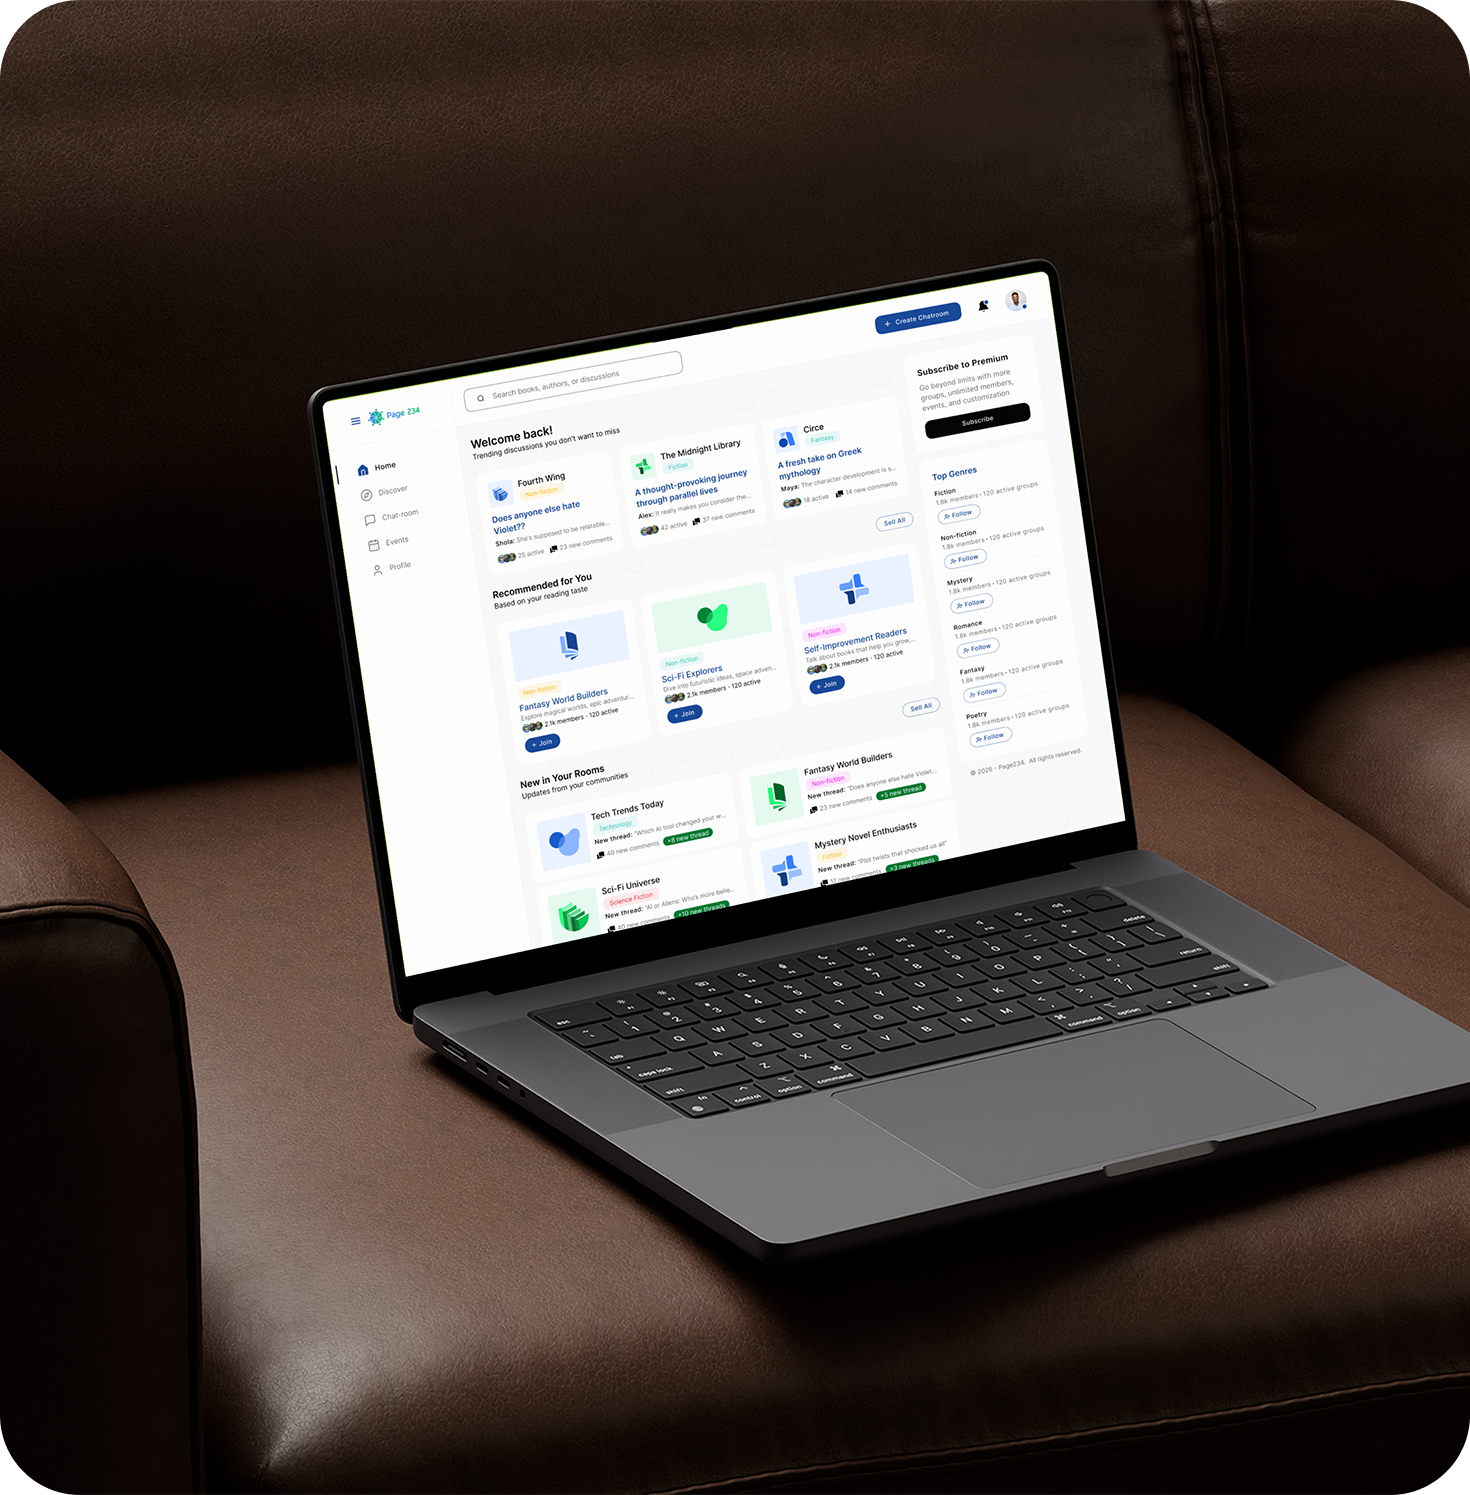
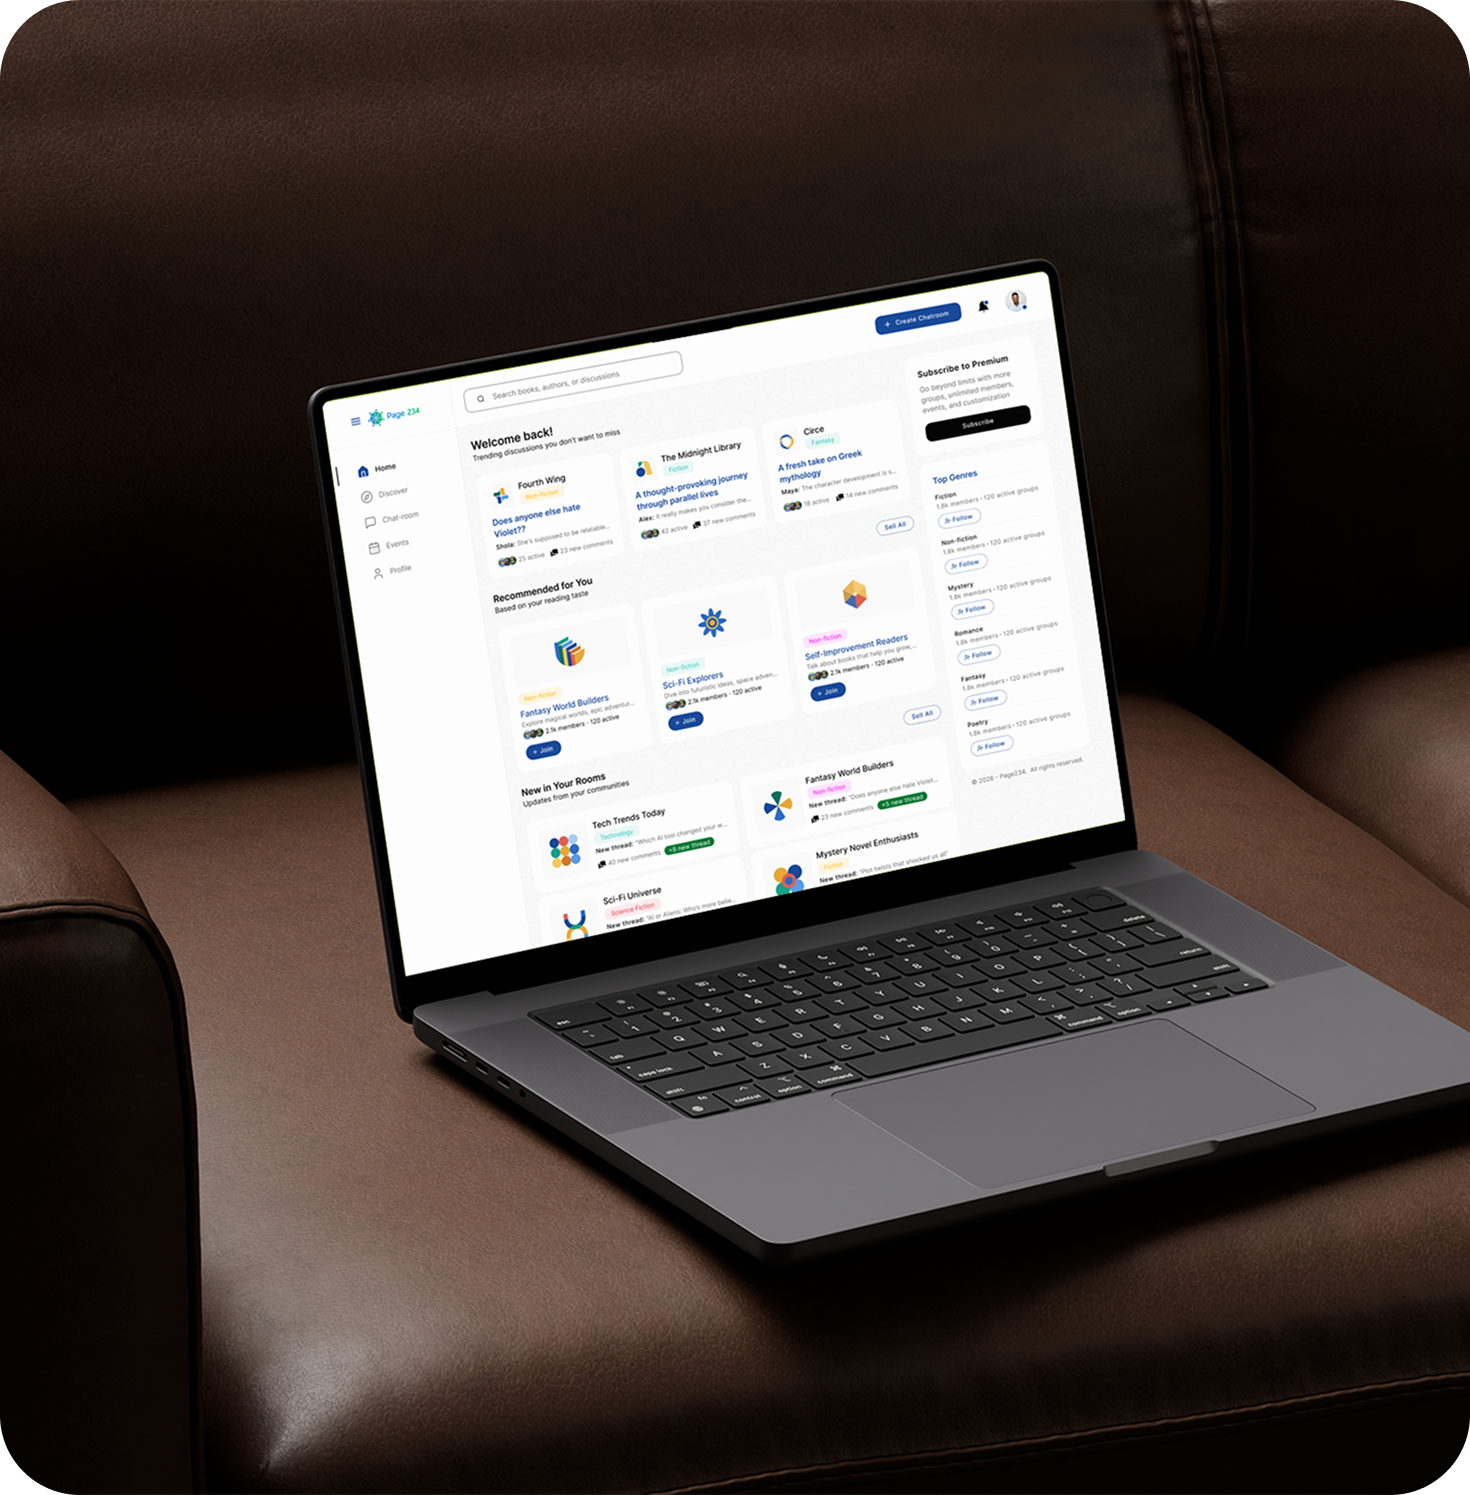
Add ScrollToTop component across all pages

Changed region(s): [[0.3061, 0.2462, 0.7347, 0.6462], [0.2449, 0.3077, 0.2755, 0.3692], [0.6122, 0.1846, 0.6429, 0.2154]]

diff --git a/src/components/ArtifactsGrid.tsx b/src/components/ArtifactsGrid.tsx
@@ -7,17 +7,17 @@ import { useState } from "react";
 export default function ArtifactsGrid() {
   const artifacts = [
     { id: 1, image: "/images/design-artifact-img/At1.png", title: "Premium corporate UI redesign for McGeorge Consulting." },
-    { id: 2, image: "/images/design-artifact-img/At2.png", title: "Luxury-focused web interface for 3Sevens." },
-    { id: 3, image: "/images/design-artifact-img/At3.png", title: "Onboarding flow for SeamTrack's tutoring platform." },
-    { id: 4, image: "/images/design-artifact-img/At4.png", title: "Intuitive mobile UI design for iWish." },
-    { id: 5, image: "/images/design-artifact-img/At5.png", title: "Tutor onboarding verification screen for SeamTrack." },
-    { id: 6, image: "/images/design-artifact-img/At6.png", title: "Responsive digital marketing page for McGeorge Consulting." },
-    { id: 7, image: "/images/design-artifact-img/At7.png", title: "Job card stage log dashboard for BMS auto repair software." },
-    { id: 8, image: "/images/design-artifact-img/At8.png", title: "Card gifting flow for Wow Cards." },
-    { id: 9, image: "/images/design-artifact-img/At9.png", title: "Responsive Product Specs Mockup" },
-    { id: 10, image: "/images/design-artifact-img/At10.png", title: "Analytics Chart UI Component" },
-    { id: 11, image: "/images/design-artifact-img/At11.png", title: "Clean Web Design Elements" },
-    { id: 12, image: "/images/design-artifact-img/At12.png", title: "Interactive Design System Tokens" },
+    { id: 2, image: "/images/design-artifact-img/At2.png", title: "Luxury-focused web interface design for 3Sevens brand." },
+    { id: 3, image: "/images/design-artifact-img/At3.png", title: "Onboarding flow design for SeamTrack's tutoring platform." },
+    { id: 4, image: "/images/design-artifact-img/At4.png", title: "Intuitive mobile UI design for iWish app." },
+    { id: 5, image: "/images/design-artifact-img/At5.png", title: "Tutor verification screen design for SeamTrack platform." },
+    { id: 6, image: "/images/design-artifact-img/At6.png", title: "Institutional Website UI design with clean visual storytelling." },
+    { id: 7, image: "/images/design-artifact-img/At7.png", title: "Job stage tracking dashboard for BMS auto repair." },
+    { id: 8, image: "/images/design-artifact-img/At8.png", title: "Card gifting flow design for Wow Cards." },
+    { id: 9, image: "/images/design-artifact-img/At9.png", title: "ERP website design for Nigerian tax compliance automation." },
+    { id: 10, image: "/images/design-artifact-img/At10.png", title: "Mobile app design for social wishlist and gifting." },
+    { id: 11, image: "/images/design-artifact-img/At11.png", title: "Website design for Nigeria's largest business chamber network." },
+    { id: 12, image: "/images/design-artifact-img/At12.png", title: "Social reading platform design for discussions and groups." },
   ];
 
   const [activeIndex, setActiveIndex] = useState<number | null>(null);

diff --git a/src/components/ScrollToTop.tsx b/src/components/ScrollToTop.tsx
@@ -1,0 +1,46 @@
+"use client";
+
+import { useState, useEffect } from "react";
+import { ArrowUp } from "lucide-react";
+import { motion, AnimatePresence } from "framer-motion";
+
+export default function ScrollToTop() {
+  const [isVisible, setIsVisible] = useState(false);
+
+  useEffect(() => {
+    const toggleVisibility = () => {
+      if (window.scrollY > 300) {
+        setIsVisible(true);
+      } else {
+        setIsVisible(false);
+      }
+    };
+
+    window.addEventListener("scroll", toggleVisibility);
+    return () => window.removeEventListener("scroll", toggleVisibility);
+  }, []);
+
+  const scrollToTop = () => {
+    window.scrollTo({
+      top: 0,
+      behavior: "smooth",
+    });
+  };
+
+  return (
+    <AnimatePresence>
+      {isVisible && (
+        <motion.button
+          initial={{ opacity: 0, scale: 0.5 }}
+          animate={{ opacity: 1, scale: 1 }}
+          exit={{ opacity: 0, scale: 0.5 }}
+          onClick={scrollToTop}
+          className="fixed bottom-6 right-6 md:bottom-8 md:right-8 p-3 bg-secondary-1 hover:bg-forest-green text-white rounded-full shadow-lg z-[99] transition-colors focus:outline-none focus:ring-2 focus:ring-lime-green focus:ring-offset-2 cursor-pointer"
+          aria-label="Scroll to top"
+        >
+          <ArrowUp className="w-5 h-5 md:w-6 md:h-6" />
+        </motion.button>
+      )}
+    </AnimatePresence>
+  );
+}

diff --git a/src/app/layout.tsx b/src/app/layout.tsx
@@ -1,5 +1,6 @@
 import type { Metadata } from "next";
 import "./globals.css";
+import ScrollToTop from "@/components/ScrollToTop";
 
 export const metadata: Metadata = {
   title: "Goodness Ayano | Product Design Portfolio",
@@ -15,6 +16,7 @@ export default function RootLayout({
     <html lang="en" className="scroll-smooth">
       <body className="bg-off-white font-sans text-dark-neutral min-h-screen antialiased">
         {children}
+        <ScrollToTop />
       </body>
     </html>
   );

diff --git a/src/components/CaseStudies.tsx b/src/components/CaseStudies.tsx
@@ -88,7 +88,7 @@ export default function CaseStudies() {
                 </span>
 
                 {/* Title */}
-                <h3 className="text-h4 font-sans text-secondary-1 mb-3 line-clamp-2">
+                <h3 className="text-h4 font-sans text-black mb-3 line-clamp-2">
                   {project.title}
                 </h3>
 
